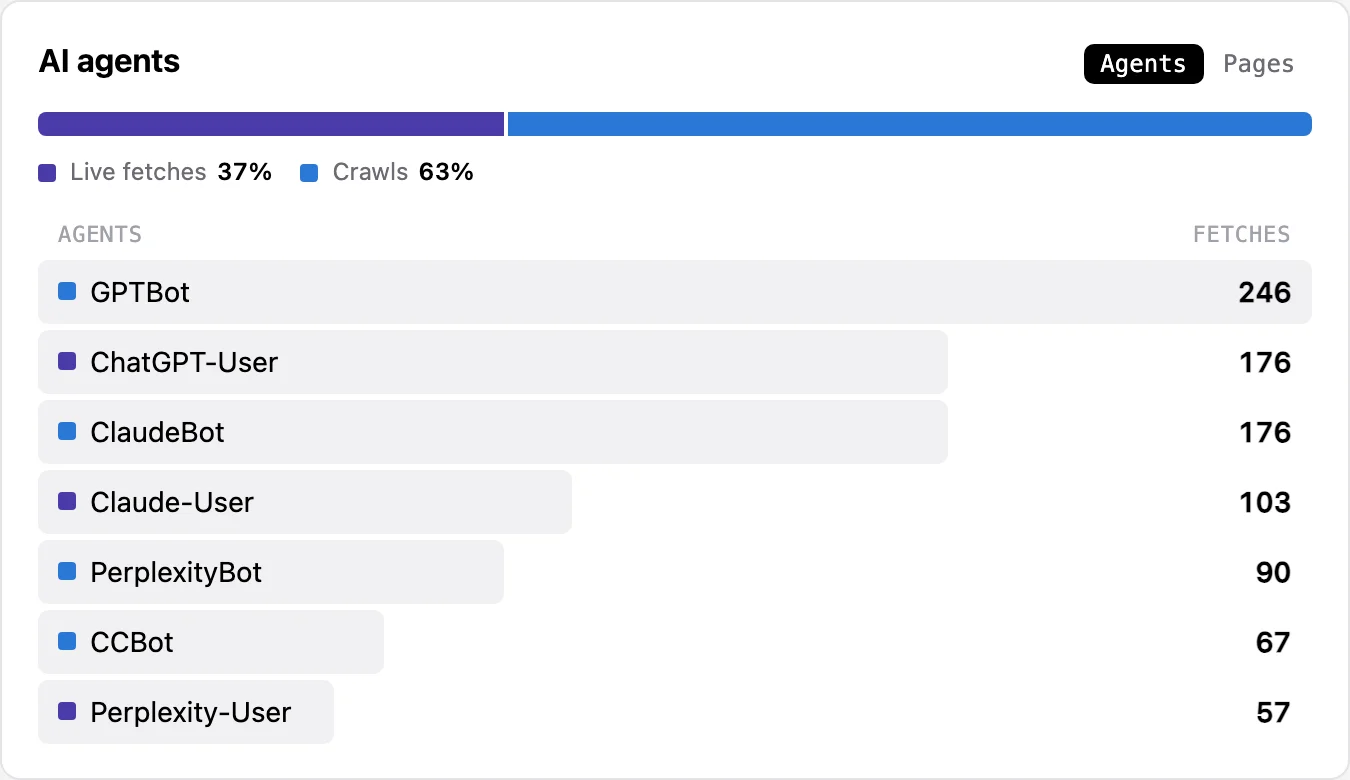
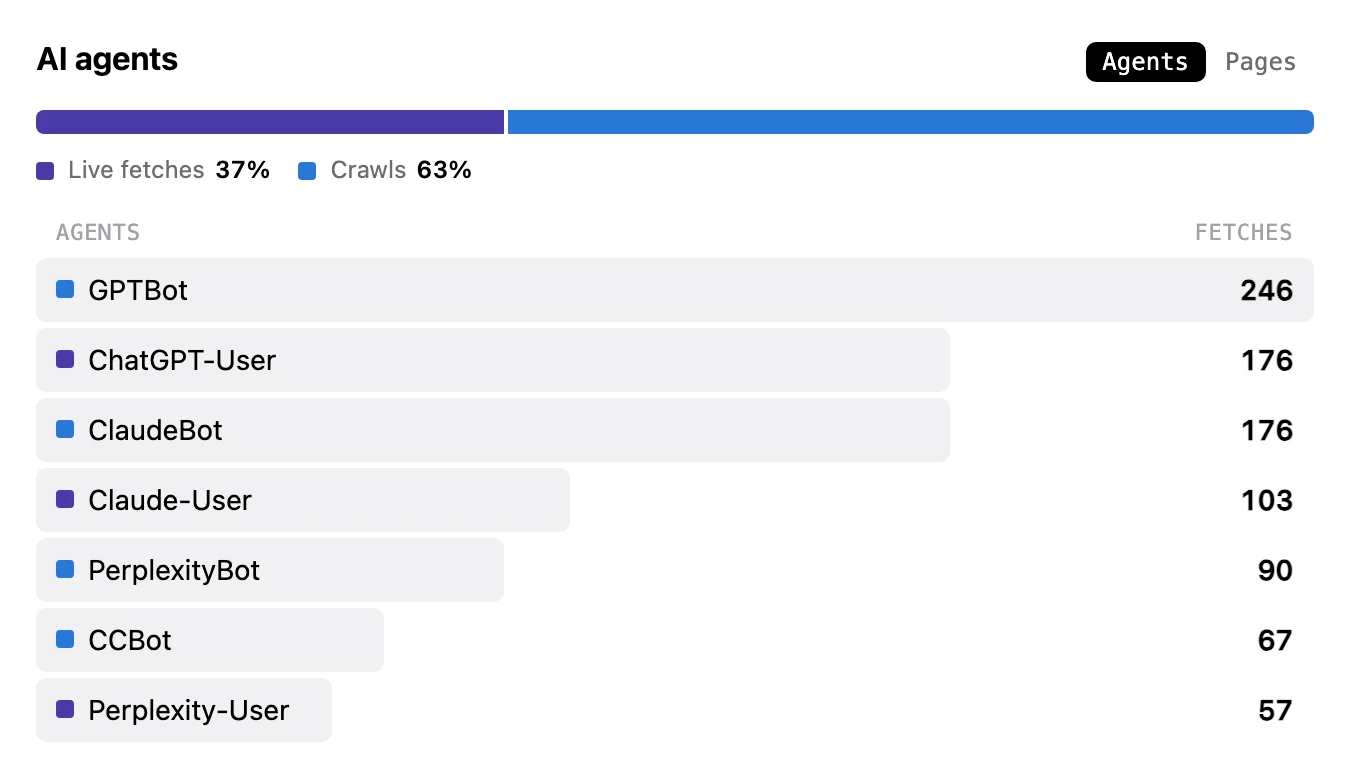
Flat-edged screenshots inside the site's own frame

diff --git a/site/src/landing.html b/site/src/landing.html
@@ -129,8 +129,8 @@
     <p>Runlight turns referrers into sources you recognise and groups those sources into channels such as search, social, email, campaigns, and AI. The AI channel holds people who clicked through from ChatGPT, Claude, Perplexity, Gemini, and the rest. Clicks that pass through newsletter trackers or webmail count as email.</p>
     <p>AI agents that fetch your pages to answer a question never run JavaScript, so no tracker sees them. Runlight counts them with one line of middleware, <code>rl.observe(request)</code>.</p>
     <div class="pair">
-      <figure class="shot"><img class="on-dark" src="/assets/shots/sources-dark.webp" width="956" height="824" alt="The Sources box shows channels as a coloured bar with Organic Search, Social, Direct, AI, Email, Referral, and Campaign." loading="lazy"><img class="on-light" src="/assets/shots/sources-light.webp" width="956" height="824" alt="" loading="lazy"></figure>
-      <figure class="shot"><img class="on-dark" src="/assets/shots/ai-dark.webp" width="1350" height="780" alt="The AI agents box shows which agents fetched pages, split between agents reading for a person and crawlers." loading="lazy"><img class="on-light" src="/assets/shots/ai-light.webp" width="1350" height="780" alt="" loading="lazy"></figure>
+      <figure class="shot"><img class="on-dark" src="/assets/shots/sources-dark.webp" width="956" height="820" alt="The Sources box shows channels as a coloured bar with Organic Search, Social, Direct, AI, Email, Referral, and Campaign." loading="lazy"><img class="on-light" src="/assets/shots/sources-light.webp" width="956" height="820" alt="" loading="lazy"></figure>
+      <figure class="shot"><img class="on-dark" src="/assets/shots/ai-dark.webp" width="1350" height="776" alt="The AI agents box shows which agents fetched pages, split between agents reading for a person and crawlers." loading="lazy"><img class="on-light" src="/assets/shots/ai-light.webp" width="1350" height="776" alt="" loading="lazy"></figure>
     </div>
   </div>
 </section>
@@ -151,7 +151,7 @@
     <p>A goal can be an event you send or a page someone reaches (<code>/thanks*</code> works). It can also be a click on something, which needs no code. After you press “Pick on my site” and click the button on your own page, Runlight counts it from then on.</p>
     <p>Give a goal a fixed value or read the amount from the event, and the box shows revenue for each goal, broken down by source and page.</p>
     <p>Goals are worked out when you read them, so one you add today counts last month too.</p>
-    <figure class="shot narrow"><img class="on-dark" src="/assets/shots/conversions-dark.webp" width="956" height="472" alt="The Conversions box lists Read the Runlight post, Newsletter signup, Purchase, and Email me, each with a rate and a count, with $6,250 revenue in the heading." loading="lazy"><img class="on-light" src="/assets/shots/conversions-light.webp" width="956" height="472" alt="" loading="lazy"></figure>
+    <figure class="shot narrow"><img class="on-dark" src="/assets/shots/conversions-dark.webp" width="956" height="468" alt="The Conversions box lists Read the Runlight post, Newsletter signup, Purchase, and Email me, each with a rate and a count, with $6,250 revenue in the heading." loading="lazy"><img class="on-light" src="/assets/shots/conversions-light.webp" width="956" height="468" alt="" loading="lazy"></figure>
   </div>
 </section>
 
@@ -160,7 +160,7 @@
   <div class="body">
     <h2>Short links on your own domain are counted like visits.</h2>
     <p>Make <code>t.example.com/sale</code> from the dashboard and every click is counted with its source, country, device, and campaign. Runlight handles thousands of links. Bring yours over from Umami, Dub, Bitly, Short.io, Rebrandly, or a CSV, with their click history where the service shares it.</p>
-    <figure class="shot"><img class="on-dark" src="/assets/shots/links-dark.webp" width="1350" height="1388" alt="The Links box lists short links such as Black and white set and Winter blues, with their slugs and click counts." loading="lazy"><img class="on-light" src="/assets/shots/links-light.webp" width="1350" height="1388" alt="" loading="lazy"></figure>
+    <figure class="shot"><img class="on-dark" src="/assets/shots/links-dark.webp" width="1350" height="1384" alt="The Links box lists short links such as Black and white set and Winter blues, with their slugs and click counts." loading="lazy"><img class="on-light" src="/assets/shots/links-light.webp" width="1350" height="1384" alt="" loading="lazy"></figure>
   </div>
 </section>
 
@@ -170,7 +170,7 @@
     <h2>The weekly email reads like the dashboard.</h2>
     <p>Pick who gets a weekly or monthly summary, each in their own language. It goes out from your own address through the email service you already use, and every email has a one-click unsubscribe. Keys are stored encrypted and never shown again.</p>
     <div class="chips" aria-label="Mail services"><span class="chip"><img src="/assets/icons/amazonaws.svg" alt="" width="14" height="14">Amazon SES</span><span class="chip"><img src="/assets/icons/resend.svg" alt="" class="inv" width="14" height="14">Resend</span><span class="chip"><img src="/assets/icons/postmark.svg" alt="" width="14" height="14">Postmark</span><span class="chip"><img src="/assets/icons/sendgrid.svg" alt="" width="14" height="14">SendGrid</span><span class="chip"><img src="/assets/icons/mailgun.svg" alt="" width="14" height="14">Mailgun</span><span class="chip"><img src="/assets/icons/brevo.svg" alt="" width="14" height="14">Brevo</span><span class="chip"><img src="/assets/icons/mailjet.png" alt="" class="r" width="14" height="14">Mailjet</span><span class="chip"><img src="/assets/icons/mailersend.png" alt="" class="r" width="14" height="14">MailerSend</span><span class="chip"><img src="/assets/icons/sparkpost.svg" alt="" width="14" height="14">SparkPost</span><span class="chip"><svg class="glyph" viewBox="0 0 16 16" aria-hidden="true"><rect x="1.5" y="3.5" width="13" height="9" rx="1.5"/><path d="M2 4.5l6 4.5 6-4.5"/></svg>SMTP</span><span class="chip"><svg class="glyph" viewBox="0 0 16 16" aria-hidden="true"><path d="M6.5 5.5a2.5 2.5 0 1 1 3.4 2.3L11.5 11M5 9.5a2.5 2.5 0 1 0 2.5 2.5h4M11.5 11a2.5 2.5 0 1 1 0 2"/></svg>Webhook</span></div>
-    <figure class="shot narrow"><img class="on-dark" src="/assets/shots/email-dark.webp" width="1200" height="2626" alt="A weekly report email saying 1,378 people visited last week, followed by six metrics, top pages, sources, countries, and conversions." loading="lazy"><img class="on-light" src="/assets/shots/email-light.webp" width="1200" height="2626" alt="" loading="lazy"></figure>
+    <figure class="shot narrow"><img class="on-dark" src="/assets/shots/email-dark.webp" width="1200" height="2622" alt="A weekly report email saying 1,378 people visited last week, followed by six metrics, top pages, sources, countries, and conversions." loading="lazy"><img class="on-light" src="/assets/shots/email-light.webp" width="1200" height="2622" alt="" loading="lazy"></figure>
     <p class="caption">This is the weekly email for the demo site, which turns light or dark to match the reader’s mail app.</p>
   </div>
 </section>
